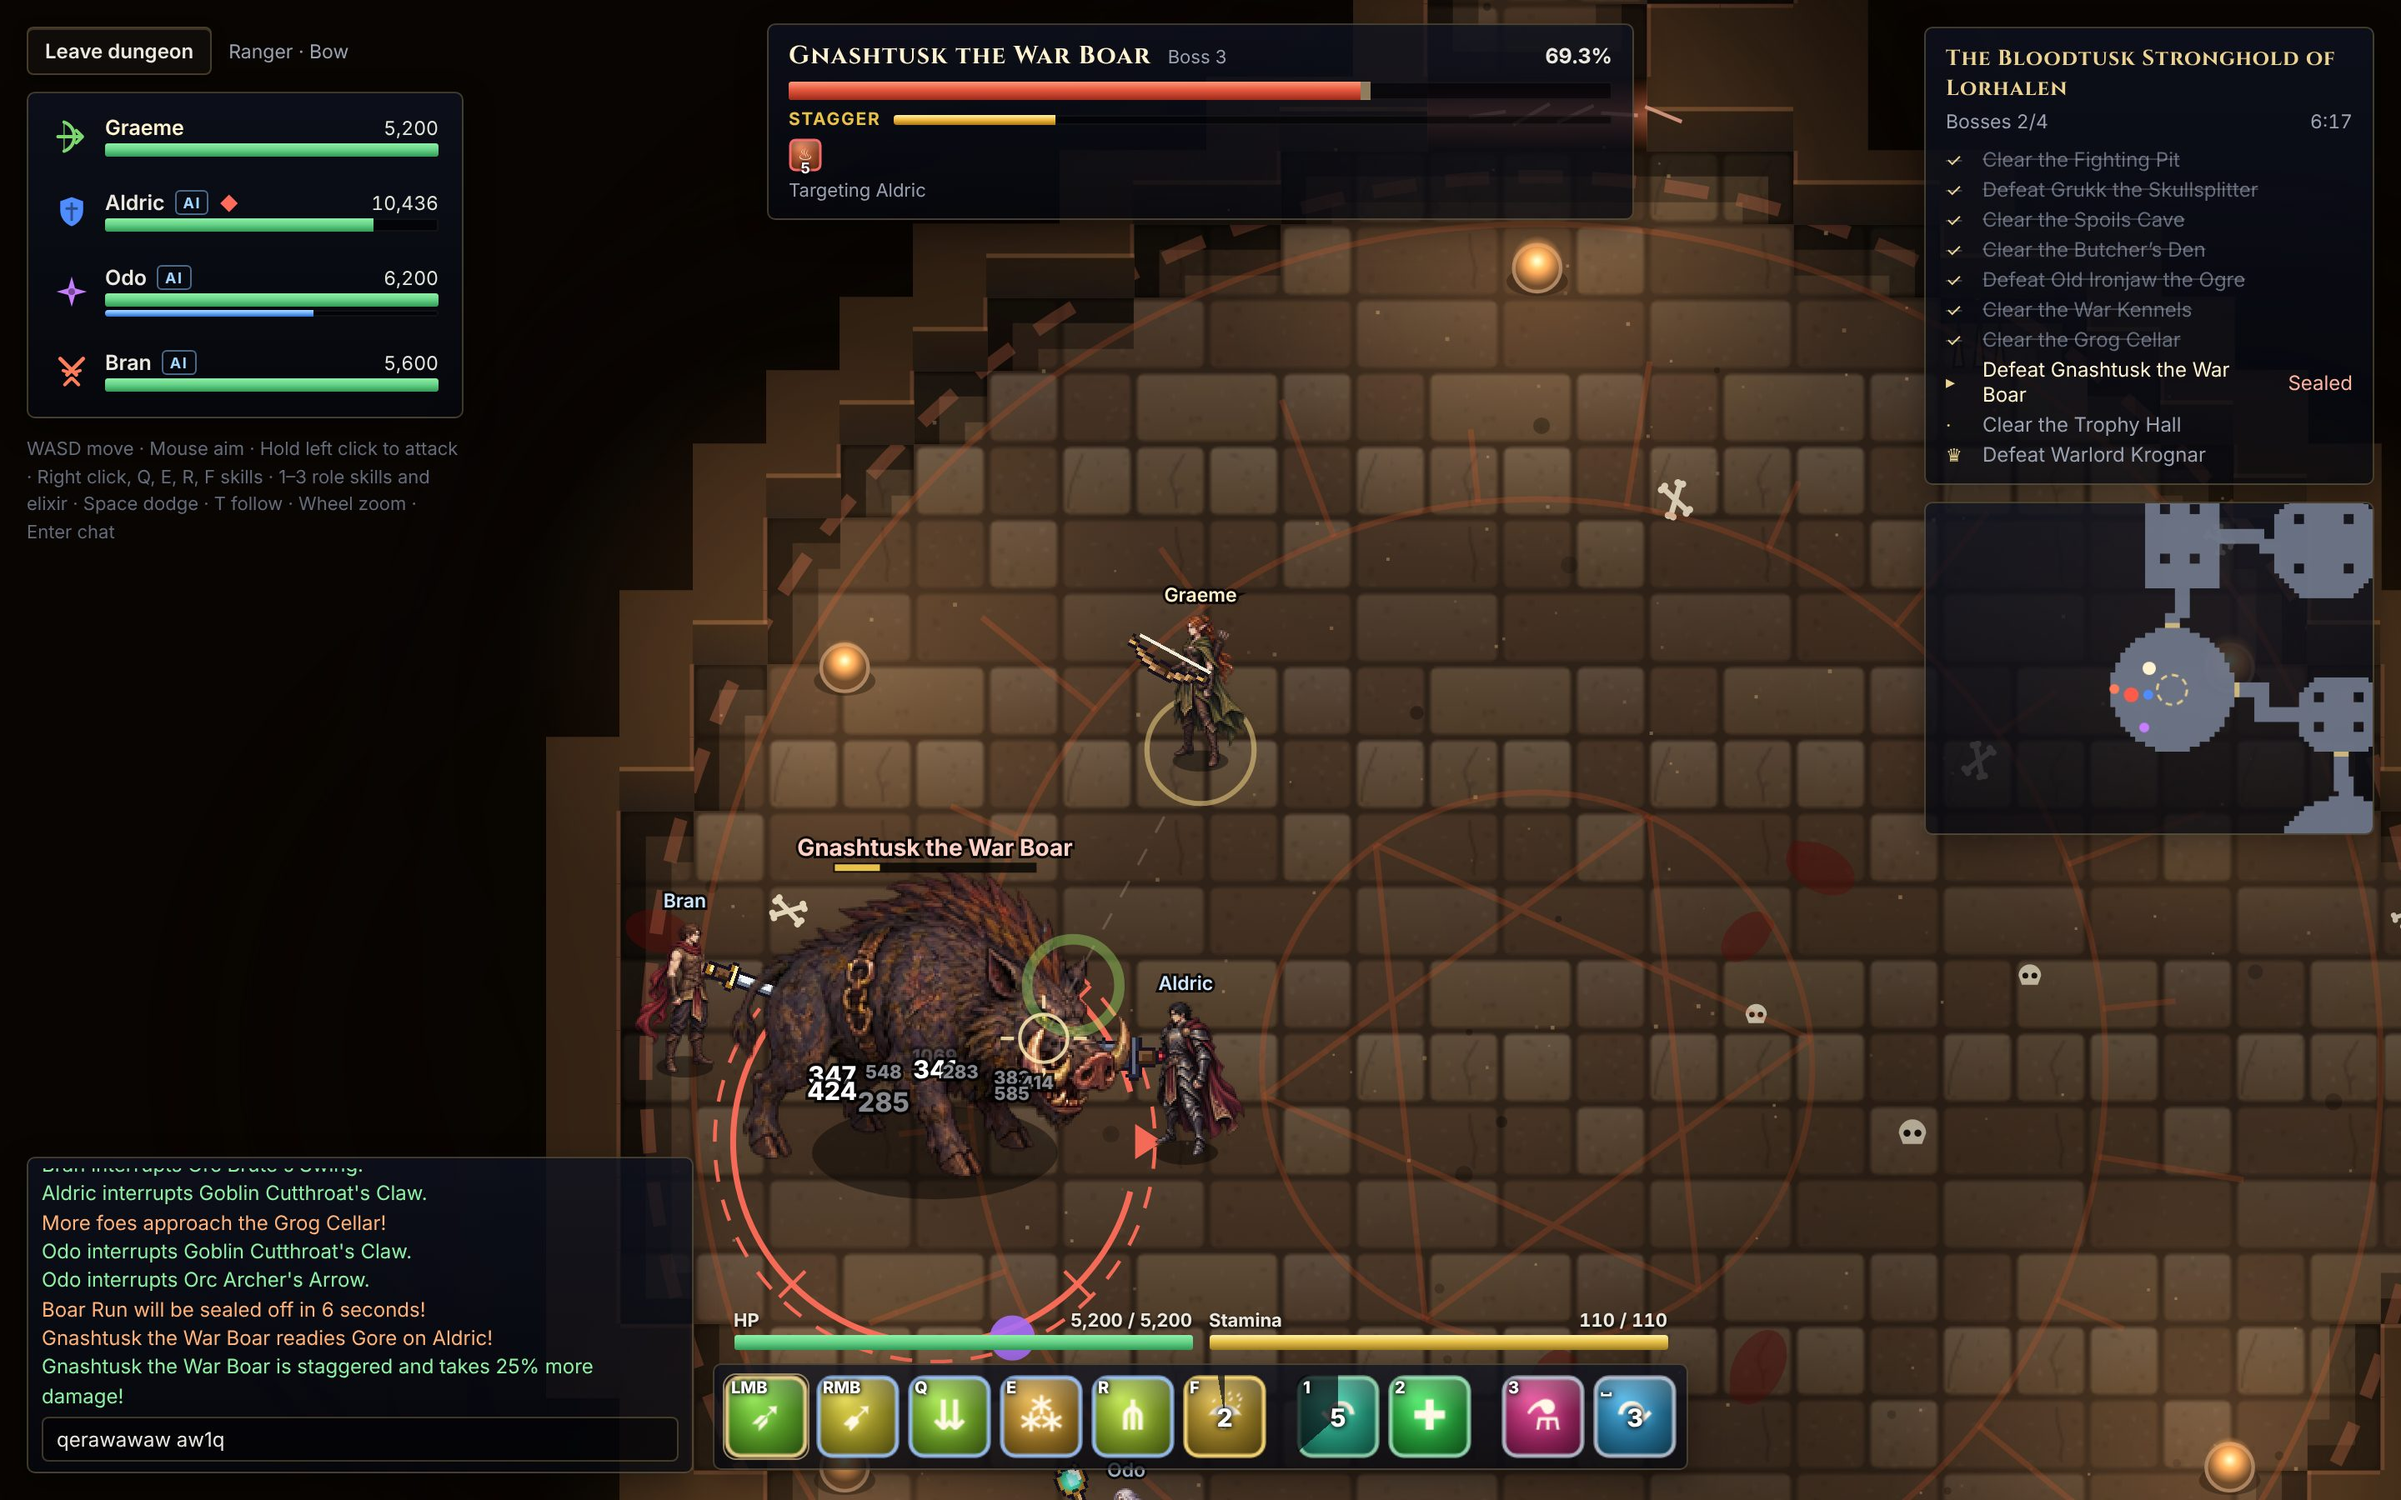
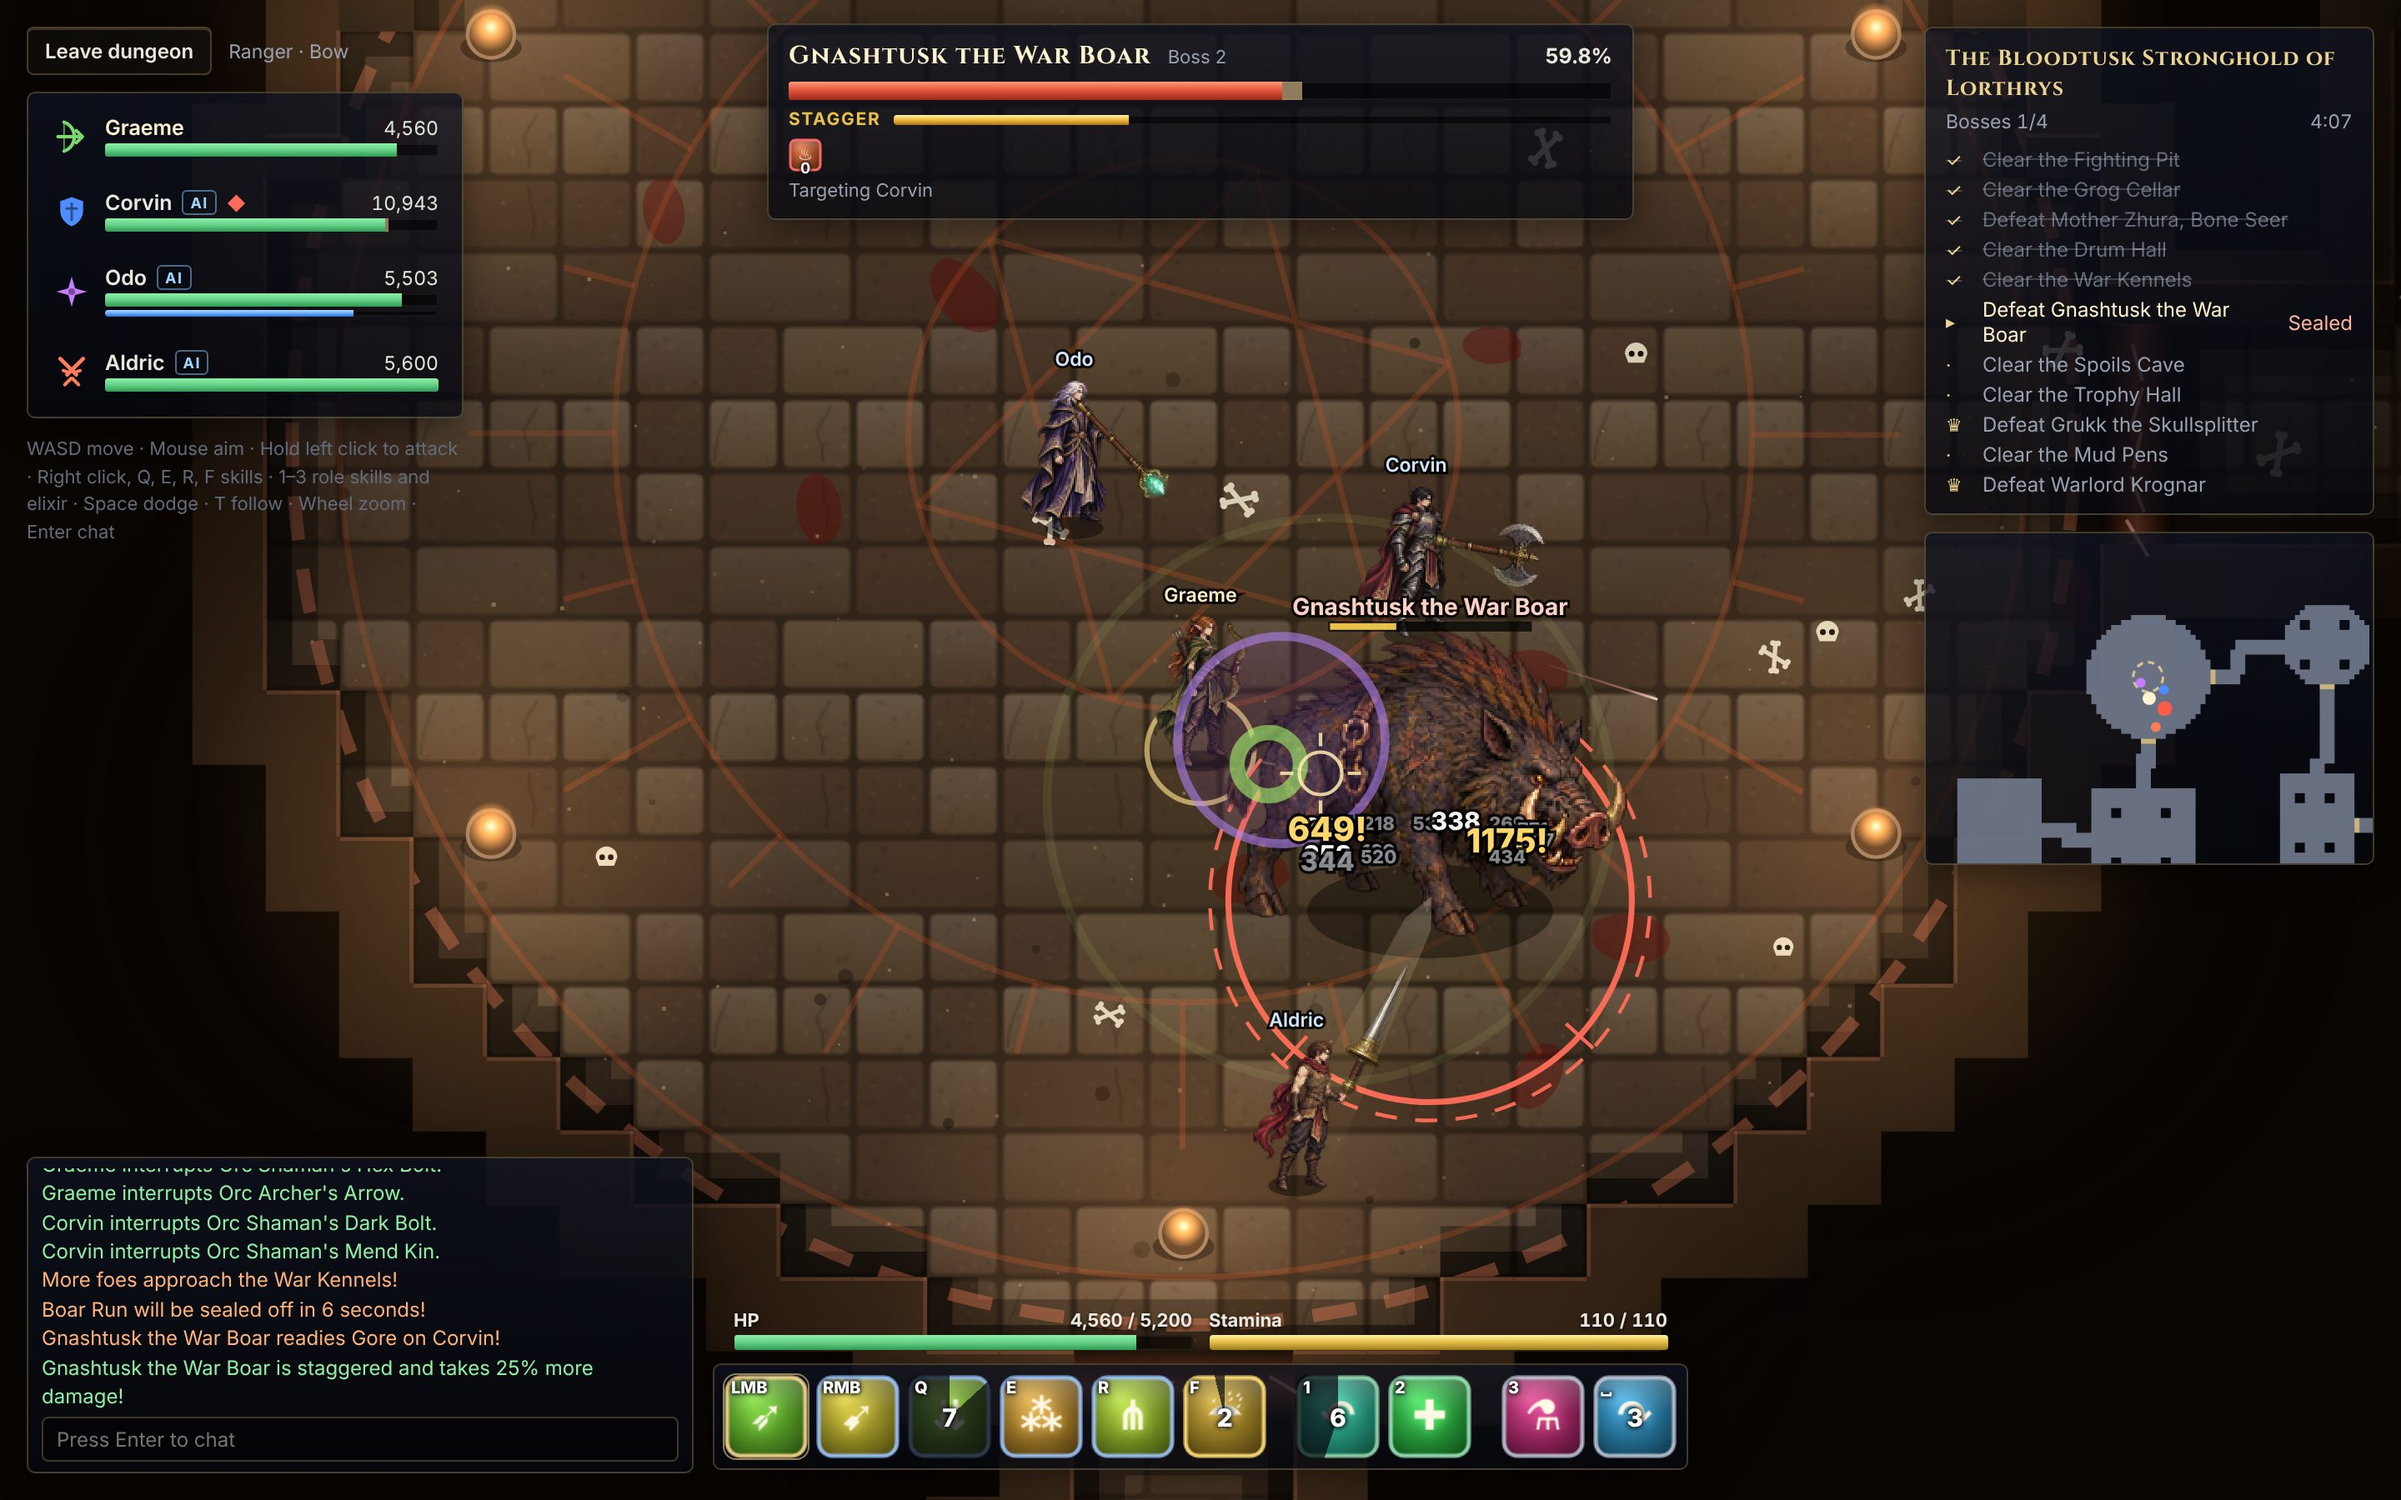
Orc boss screenshot with the new cast and equipment, without stray chat text
Claude-Session: https://claude.ai/code/session_01PGbyV5ggZzqgFPyt3tnswL

diff --git a/README.md b/README.md
@@ -11,7 +11,7 @@ cursor, and dodge-roll through danger. The dungeon structure takes its cues from
 dungeons: a finder queue with a ready check, enmity and taunts, sealed boss arenas, and orange
 telegraphs to step out of. All names, art, skills and bosses are original.
 
-![Fighting Mother Zhura, Bone Seer, in an Orc stronghold](docs/screenshots/orc-boss.jpg)
+![Fighting Gnashtusk the War Boar in an Orc stronghold](docs/screenshots/orc-boss.jpg)
 
 ![The title screen with the four heroes](docs/screenshots/title.jpg)
 
